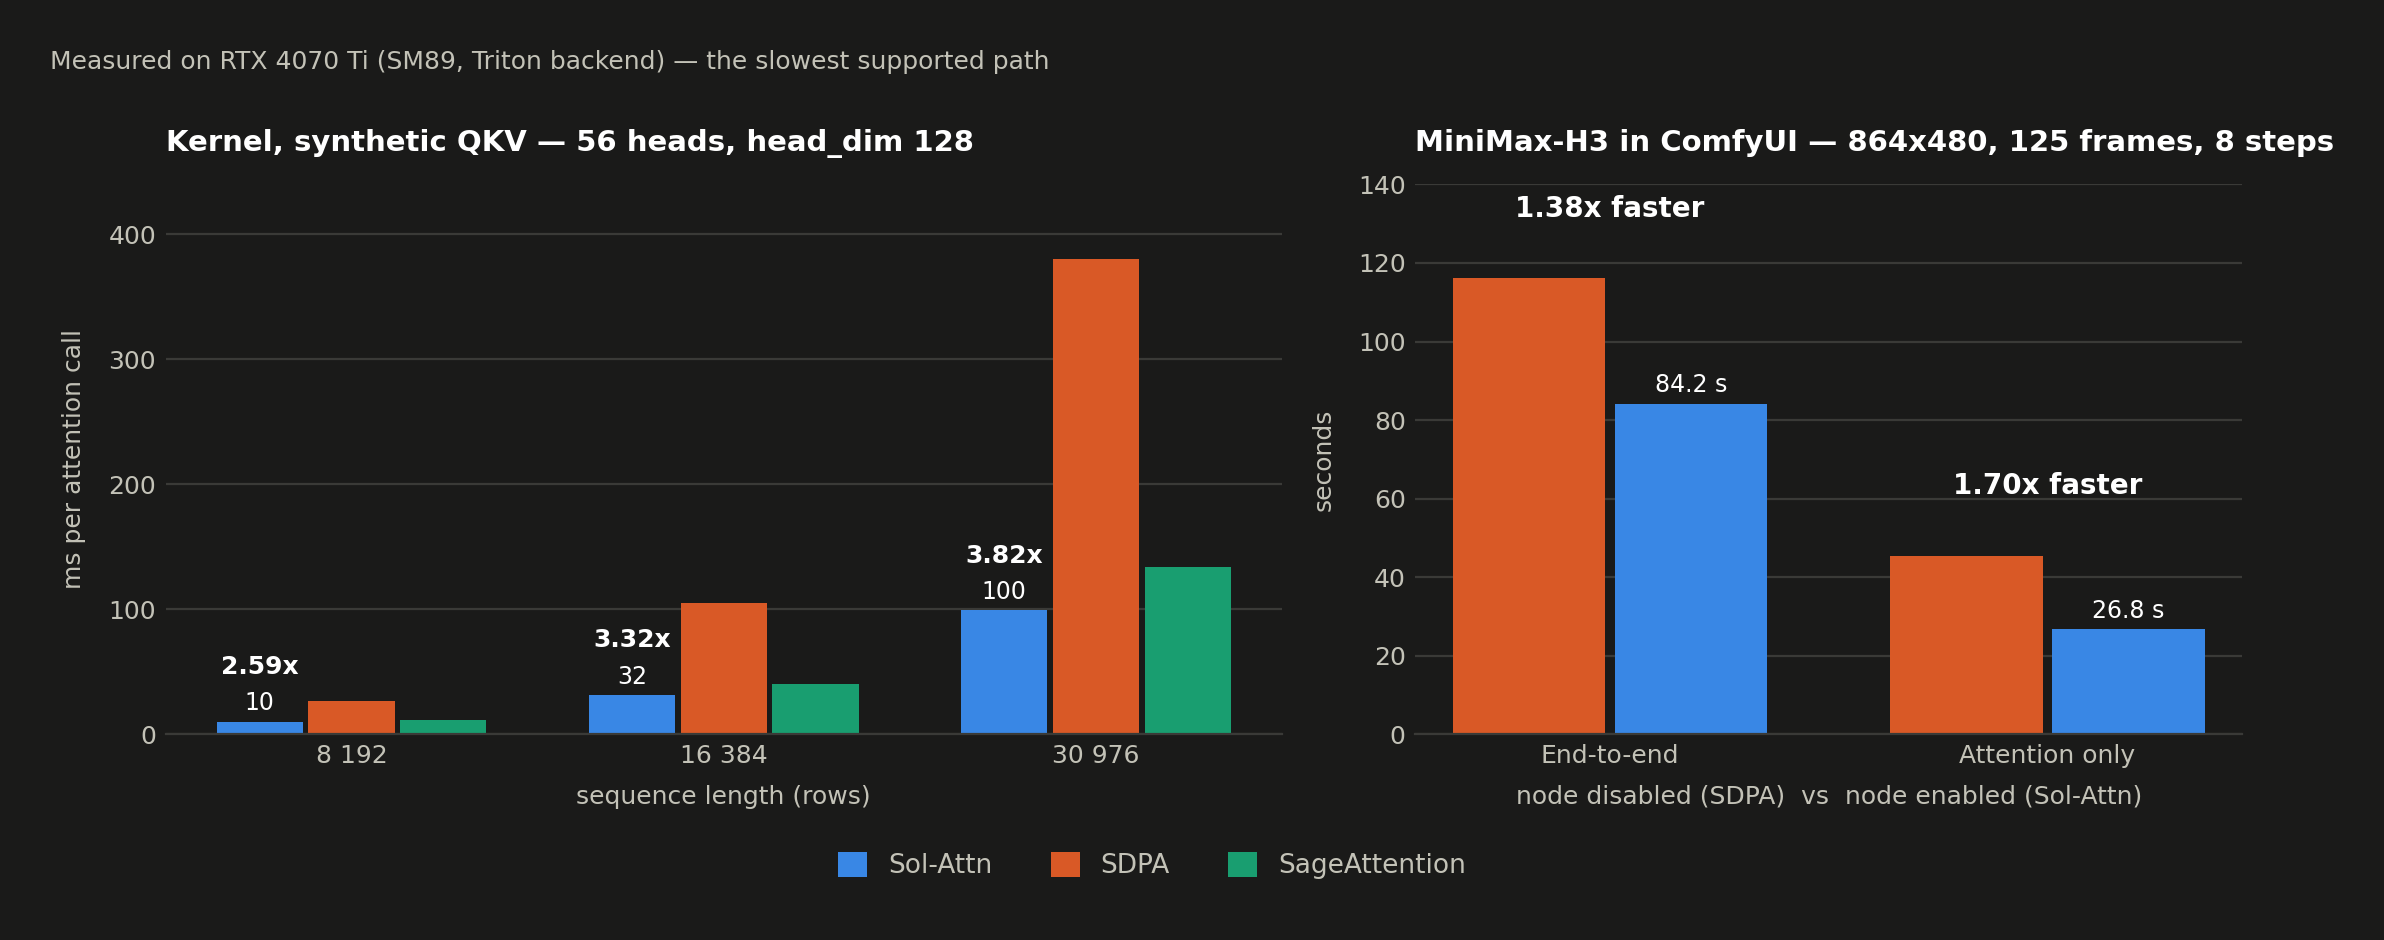
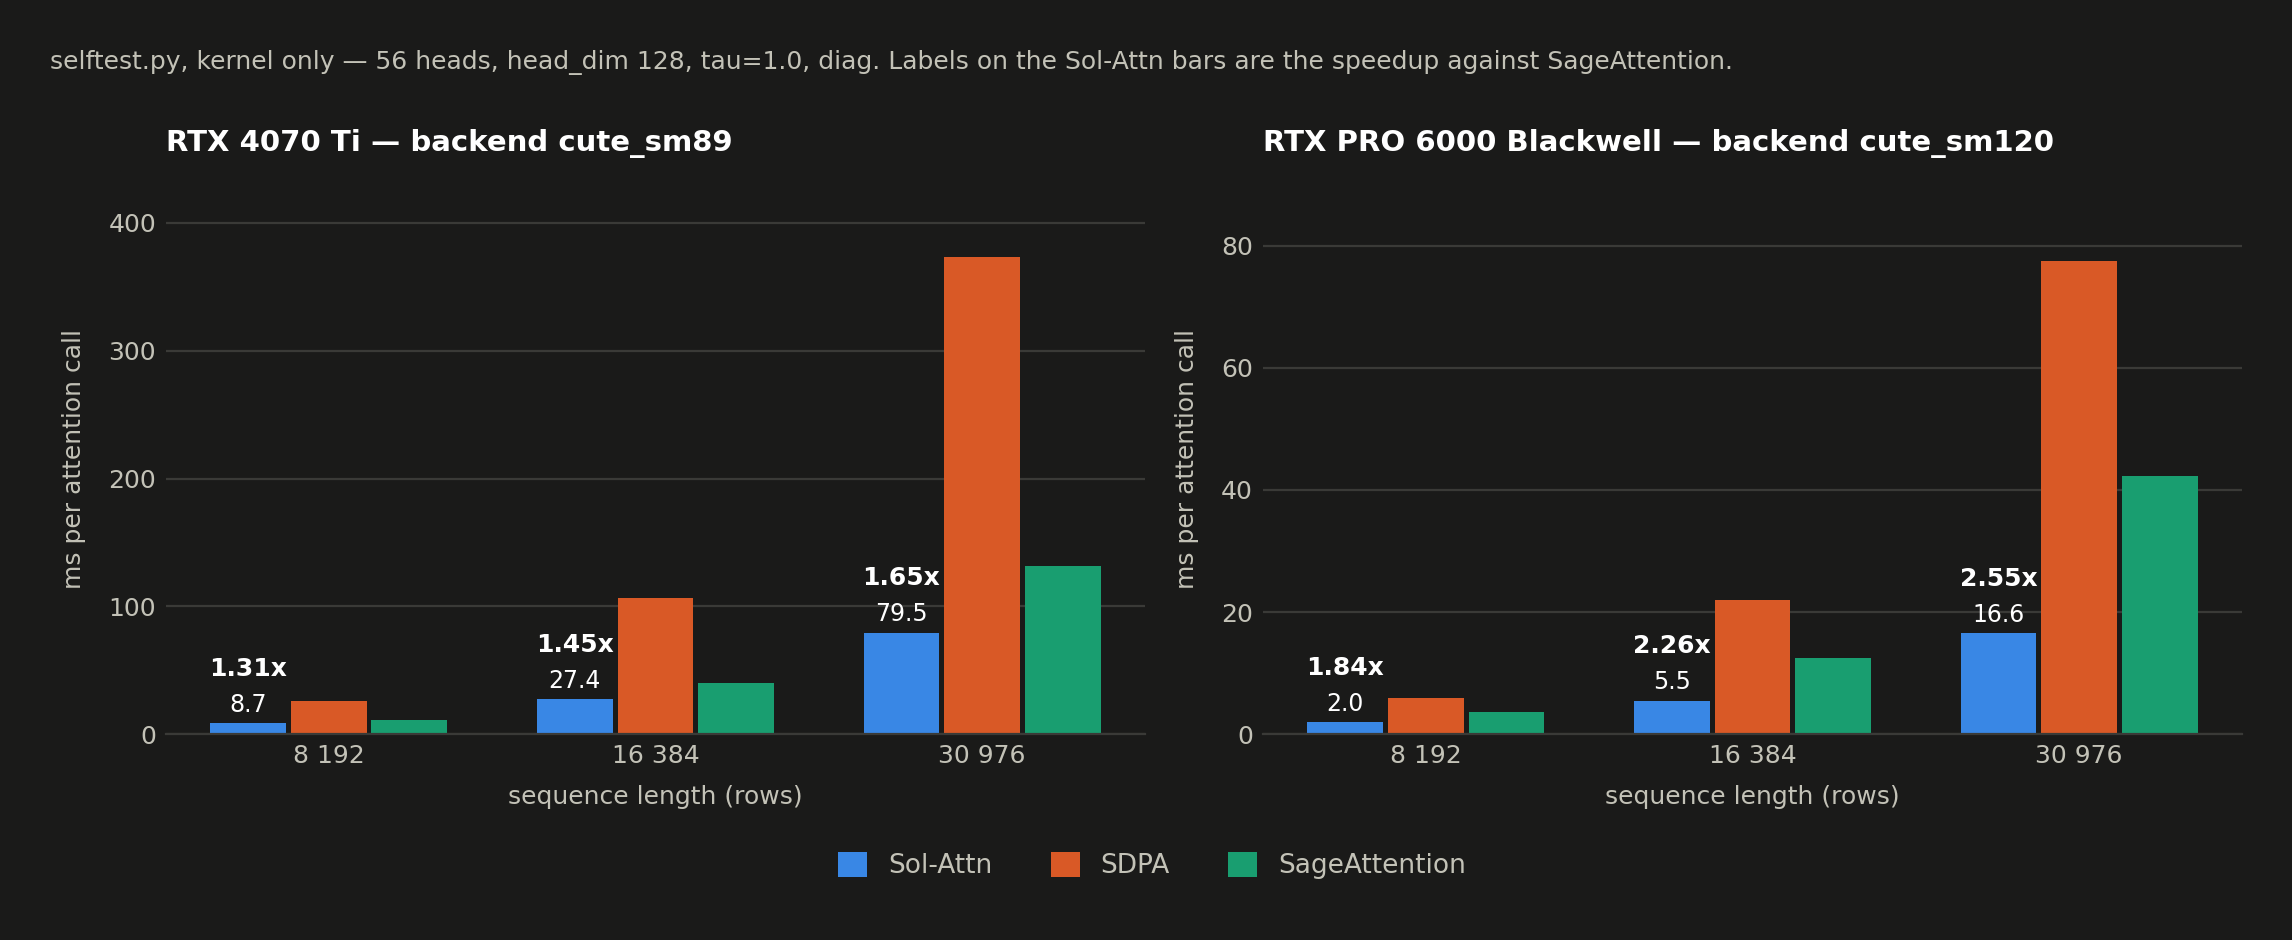
docs: rebuild the chart on CuTe data and make the tables backend-explicit
The chart still showed Triton numbers and called SM89 'the slowest
supported path', which stopped being true when NVIDIA shipped the SM89
CuTe kernel. It now plots both cards at identical settings and sequence
lengths, so they are directly comparable.

Re-ran selftest on SM89 with cute_sm89 at the same lengths as the SM120
run: 1.31-1.65x against SageAttention, 3.00-4.70x against SDPA. Worth
noting that the SDPA ratio is nearly identical on both cards - it measures
the sparsity, which is architecture-independent - while the SageAttention
gap differs only because Sage is relatively stronger on Ada.

Every results table now names its backend, the one-off cost section covers
both, and the two sections that were only true on Triton (the oldest
end-to-end A/B and the tuning levers) say so up front.

Claude-Session: https://claude.ai/code/session_0197cd3R8nos8VrCjEyK3VXq

diff --git a/docs/make_charts.py b/docs/make_charts.py
@@ -1,8 +1,11 @@
-"""Builds the README charts from measurements taken on an RTX 4070 Ti (SM89 / Triton).
+"""Builds the README charts from selftest.py runs on two GPUs.
 
-Every number comes from a real run:
-  * panel A — selftest.py on synthetic QKV, 56 heads, head_dim 128
-  * panel B — MiniMax-H3 in ComfyUI, 864x480x125 (17504-row sequence), 8 steps
+Both panels are the same measurement at the same sequence lengths, so they are
+directly comparable: kernel-only time per attention call, 56 heads, head_dim 128,
+tau=1.0, thresh_type=diag, on the CuTe DSL backend each card resolves to.
+
+  * panel A — RTX 4070 Ti, cute_sm89
+  * panel B — RTX PRO 6000 Blackwell, cute_sm120
 
 Colour is bound to the entity rather than to a position within the group:
 Sol-Attn is always blue, SDPA orange, SageAttention aqua — in both panels.
@@ -33,18 +36,18 @@ THEMES = {
     },
 }
 
-# Panel A: ms per attention call, synthetic QKV (selftest.py)
-KERNEL_X = ["8 192", "16 384", "30 976"]
-KERNEL = {
-    "Sol-Attn": [10.2, 31.7, 99.6],
-    "SDPA": [26.4, 105.4, 380.0],
-    "SageAttention": [11.2, 40.0, 133.6],
+LENGTHS = ["8 192", "16 384", "30 976"]
+# Panel A: RTX 4070 Ti, backend cute_sm89
+SM89 = {
+    "Sol-Attn": [8.70, 27.42, 79.55],
+    "SDPA": [26.06, 106.49, 373.51],
+    "SageAttention": [11.40, 39.81, 131.57],
 }
-# Panel B: seconds, MiniMax-H3 in ComfyUI, 17504-row sequence, 8 steps
-REAL_X = ["End-to-end", "Attention only"]
-REAL = {
-    "SDPA": [116.1, 45.5],     # node disabled - ComfyUI default attention
-    "Sol-Attn": [84.2, 26.8],  # node enabled
+# Panel B: RTX PRO 6000 Blackwell, backend cute_sm120
+SM120 = {
+    "Sol-Attn": [1.97, 5.53, 16.58],
+    "SDPA": [5.88, 21.99, 77.45],
+    "SageAttention": [3.63, 12.50, 42.23],
 }
 
 
@@ -90,34 +93,22 @@ def _grouped(ax, theme, categories, series, *, label_series, fmt, speedup_vs=Non
 def build(mode: str) -> pathlib.Path:
     theme = THEMES[mode]
     fig, (left, right) = plt.subplots(1, 2, figsize=(11.2, 4.3), dpi=200,
-                                      gridspec_kw={"width_ratios": [1.35, 1]})
+                                      gridspec_kw={"width_ratios": [1, 1]})
     fig.patch.set_facecolor(theme["surface"])
 
-    _grouped(left, theme, KERNEL_X, KERNEL, label_series="Sol-Attn",
-             fmt=lambda v: f"{v:.0f}", speedup_vs="SDPA")
-    _style(left, theme, ylabel="ms per attention call")
-    left.set_title("Kernel, synthetic QKV — 56 heads, head_dim 128",
-                   color=theme["primary"], fontsize=10.5, fontweight="semibold",
-                   loc="left", pad=12)
-    left.set_xlabel("sequence length (rows)", color=theme["secondary"], fontsize=9,
-                    labelpad=6)
-    left.yaxis.set_major_locator(MultipleLocator(100))
-    left.set_ylim(0, 440)
-
-    _grouped(right, theme, REAL_X, REAL, label_series="Sol-Attn",
-             fmt=lambda v: f"{v:.1f} s")
-    _style(right, theme, ylabel="seconds")
-    right.set_title("MiniMax-H3 in ComfyUI — 864x480, 125 frames, 8 steps",
-                    color=theme["primary"], fontsize=10.5, fontweight="semibold",
-                    loc="left", pad=12)
-    right.set_xlabel("node disabled (SDPA)  vs  node enabled (Sol-Attn)",
-                     color=theme["secondary"], fontsize=9, labelpad=6)
-    right.set_ylim(0, 140)
-    # The speedup ratio above each pair - that is the panel's actual message.
-    for index, (off, on) in enumerate(zip(REAL["SDPA"], REAL["Sol-Attn"])):
-        right.annotate(f"{off / on:.2f}x faster", (index, max(off, on)),
-                       textcoords="offset points", xytext=(0, 22), ha="center",
-                       fontsize=10, fontweight="semibold", color=theme["primary"])
+    for ax, data, title, top, tick in (
+        (left, SM89, "RTX 4070 Ti — backend cute_sm89", 430, 100),
+        (right, SM120, "RTX PRO 6000 Blackwell — backend cute_sm120", 90, 20),
+    ):
+        _grouped(ax, theme, LENGTHS, data, label_series="Sol-Attn",
+                 fmt=lambda v: f"{v:.1f}", speedup_vs="SageAttention")
+        _style(ax, theme, ylabel="ms per attention call")
+        ax.set_title(title, color=theme["primary"], fontsize=10.5,
+                     fontweight="semibold", loc="left", pad=12)
+        ax.set_xlabel("sequence length (rows)", color=theme["secondary"],
+                      fontsize=9, labelpad=6)
+        ax.yaxis.set_major_locator(MultipleLocator(tick))
+        ax.set_ylim(0, top)
 
     handles, labels = left.get_legend_handles_labels()
     legend = fig.legend(handles, labels, loc="lower center", ncol=3, frameon=False,
@@ -127,7 +118,8 @@ def build(mode: str) -> pathlib.Path:
         text.set_color(theme["secondary"])
 
     fig.text(0.008, 0.965,
-             "Measured on RTX 4070 Ti (SM89, Triton backend) — the slowest supported path",
+             "selftest.py, kernel only — 56 heads, head_dim 128, tau=1.0, diag. "
+             "Labels on the Sol-Attn bars are the speedup against SageAttention.",
              color=theme["secondary"], fontsize=9)
     fig.tight_layout(rect=(0, 0.07, 1, 0.93))
 

diff --git a/README.md b/README.md
@@ -16,14 +16,13 @@ silently.
 
 <picture>
   <source media="(prefers-color-scheme: dark)" srcset="docs/images/benchmark-dark.png">
-  <img alt="Benchmark: Sol-Attn vs SDPA vs SageAttention, and end-to-end in ComfyUI" src="docs/images/benchmark-light.png">
+  <img alt="Kernel time per attention call on RTX 4070 Ti (cute_sm89) and RTX PRO 6000 Blackwell (cute_sm120), Sol-Attn against SDPA and SageAttention at three sequence lengths" src="docs/images/benchmark-light.png">
 </picture>
 
-Unless a section says otherwise, the numbers below were measured on an
-**RTX 4070 Ti (SM89)**. For a CuTe DSL card see
-[SM120 — RTX PRO 6000 Blackwell](#sm120--rtx-pro-6000-blackwell-cute-dsl),
-where the comparison against SageAttention comes out the other way round. Do not
-transfer any of these numbers to your own GPU; run `selftest.py` on it instead.
+The chart is `selftest.py` on two cards at identical settings: kernel time per
+attention call, `tau=1.0`, on the CuTe backend each one resolves to. Every table
+below states its card **and its backend**, because both change the answer. Do not
+transfer any of these numbers to your own GPU — run `selftest.py` on it instead.
 
 > **Upstream update, August 2026.** NVIDIA added a **CuTe DSL kernel for SM89**
 > ([`9cfdd07`](https://github.com/NVlabs/Sana/commit/9cfdd07)), so Ada is no
@@ -107,11 +106,16 @@ numbers to mean anything.
 
 These are kernel-only figures; no end-to-end ComfyUI run was measured on this card.
 
-### End-to-end, MiniMax-H3 in ComfyUI
+### End-to-end, MiniMax-H3 in ComfyUI — SDPA baseline, Triton backend
+
+**Scope:** this is the oldest measurement in the file and the most flattering
+one, because both its baseline and its backend are the weak options: ComfyUI's
+default `pytorch attention` against the Triton kernel. Kept because it is the
+only full end-to-end A/B with per-call instrumentation. For the same run against
+SageAttention see the box at the top; for the CuTe backend see the tables above.
 
 864×480, 125 frames (**17 504**-row packed sequence), 8 steps, `res_multistep`,
-int8 `fl2va` weights. Baseline is ComfyUI's own default attention in this
-install — `pytorch attention` (SDPA). Measurement pass after warm-up:
+int8 `fl2va` weights. Measurement pass after warm-up:
 
 | Metric | Node off | Node on | Ratio |
 |---|---:|---:|---:|
@@ -129,24 +133,39 @@ control for the measurement itself — the instrumentation does not skew results
 Attention accounts for **59 %** of step time here (45.5 s of 76 s sampling), so
 kernel speedup translates to wall clock in a sane proportion.
 
-### Kernel only, synthetic QKV (`selftest.py`) — SM89 / Triton
+### SM89 — RTX 4070 Ti, both backends
 
-56 heads, head_dim 128, `tau=1.0`, `thresh_type=diag`:
+Same measurement as the SM120 table above, so the two are directly comparable.
+`selftest.py`, kernel only, 56 heads, head_dim 128, `tau=1.0`, `thresh_type=diag`.
+
+**`cute_sm89`** — what you get with the CuTe runtime installed:
 
 | Sequence | Gate | Density | Sol-Attn | SDPA | SageAttention | vs SDPA | vs Sage |
 |---:|:--:|---:|---:|---:|---:|---:|---:|
-| 5 548 | PASS | 0.231 | — | — | — | 2.75× | 1.27× |
+| 8 192 | PASS | 0.272 | 8.70 ms | 26.06 ms | 11.40 ms | 3.00× | 1.31× |
+| 16 384 | PASS | 0.214 | 27.42 ms | 106.49 ms | 39.81 ms | 3.88× | 1.45× |
+| 30 976 | PASS | 0.186 | 79.55 ms | 373.51 ms | 131.57 ms | **4.70×** | **1.65×** |
+
+**`triton`** — the fallback when any of the three CuTe packages is missing:
+
+| Sequence | Gate | Density | Sol-Attn | SDPA | SageAttention | vs SDPA | vs Sage |
+|---:|:--:|---:|---:|---:|---:|---:|---:|
 | 8 192 | PASS | 0.271 | 10.2 ms | 26.4 ms | 11.2 ms | 2.58× | 1.09× |
 | 16 384 | PASS | 0.214 | 31.7 ms | 105.4 ms | 40.0 ms | 3.32× | 1.26× |
-| 30 976 | PASS | 0.186 | 99.6 ms | 380.0 ms | 133.6 ms | **3.82×** | **1.34×** |
+| 30 976 | PASS | 0.186 | 99.6 ms | 380.0 ms | 133.6 ms | 3.82× | 1.34× |
 
-Routing density falls as the sequence grows — **the longer the video, the more
-Sol-Attn pays off.**
+Two things to read off these tables. Routing density falls as the sequence grows,
+so **the longer the video, the more Sol-Attn pays off** — on both backends and
+both cards. And the speedup against **SDPA is nearly identical on SM89 and SM120**
+(3.00/3.88/4.70 against 3.00/3.98/4.67): that ratio measures the sparsity itself,
+which is architecture-independent. The gap against SageAttention differs only
+because Sage is relatively stronger on Ada than on Blackwell.
 
 ### One-off costs
 
-First sparse call in a process: **13.4 s** (Triton kernel compilation) plus the
-correctness gate and density probe. With a warm cache it drops to **0.38 s**.
+First sparse call in a process, including the correctness gate and the density
+probe: **3.2 s** on `cute_sm89`, **13.4 s** on `triton`. With a warm compile cache
+both drop to well under a second (measured 0.05–0.38 s).
 
 **Triton compiles per sequence shape, not once per process.** Every new
 resolution or frame count pays that cost again, and on short runs it can eat the
@@ -212,7 +231,13 @@ the sparse path itself produces. More aggressive caching is not free.
 
 ---
 
-## Tuning: when the default loses
+## Tuning
+
+**Scope:** the table below was measured on the **Triton** backend, where the
+default configuration loses to SageAttention. On `cute_sm89` the default already
+wins (1.06× at seq 20 530, 1.32× at 45 241) and these levers are optional. Reach
+for them when you are stuck on Triton, or when you want more than the default on
+a short sequence.
 
 Two levers move the cost materially. Both trade quality, so neither is a default.
 Measured in isolation at seq 20 530, 56 heads, against SageAttention (~56.5 ms):
